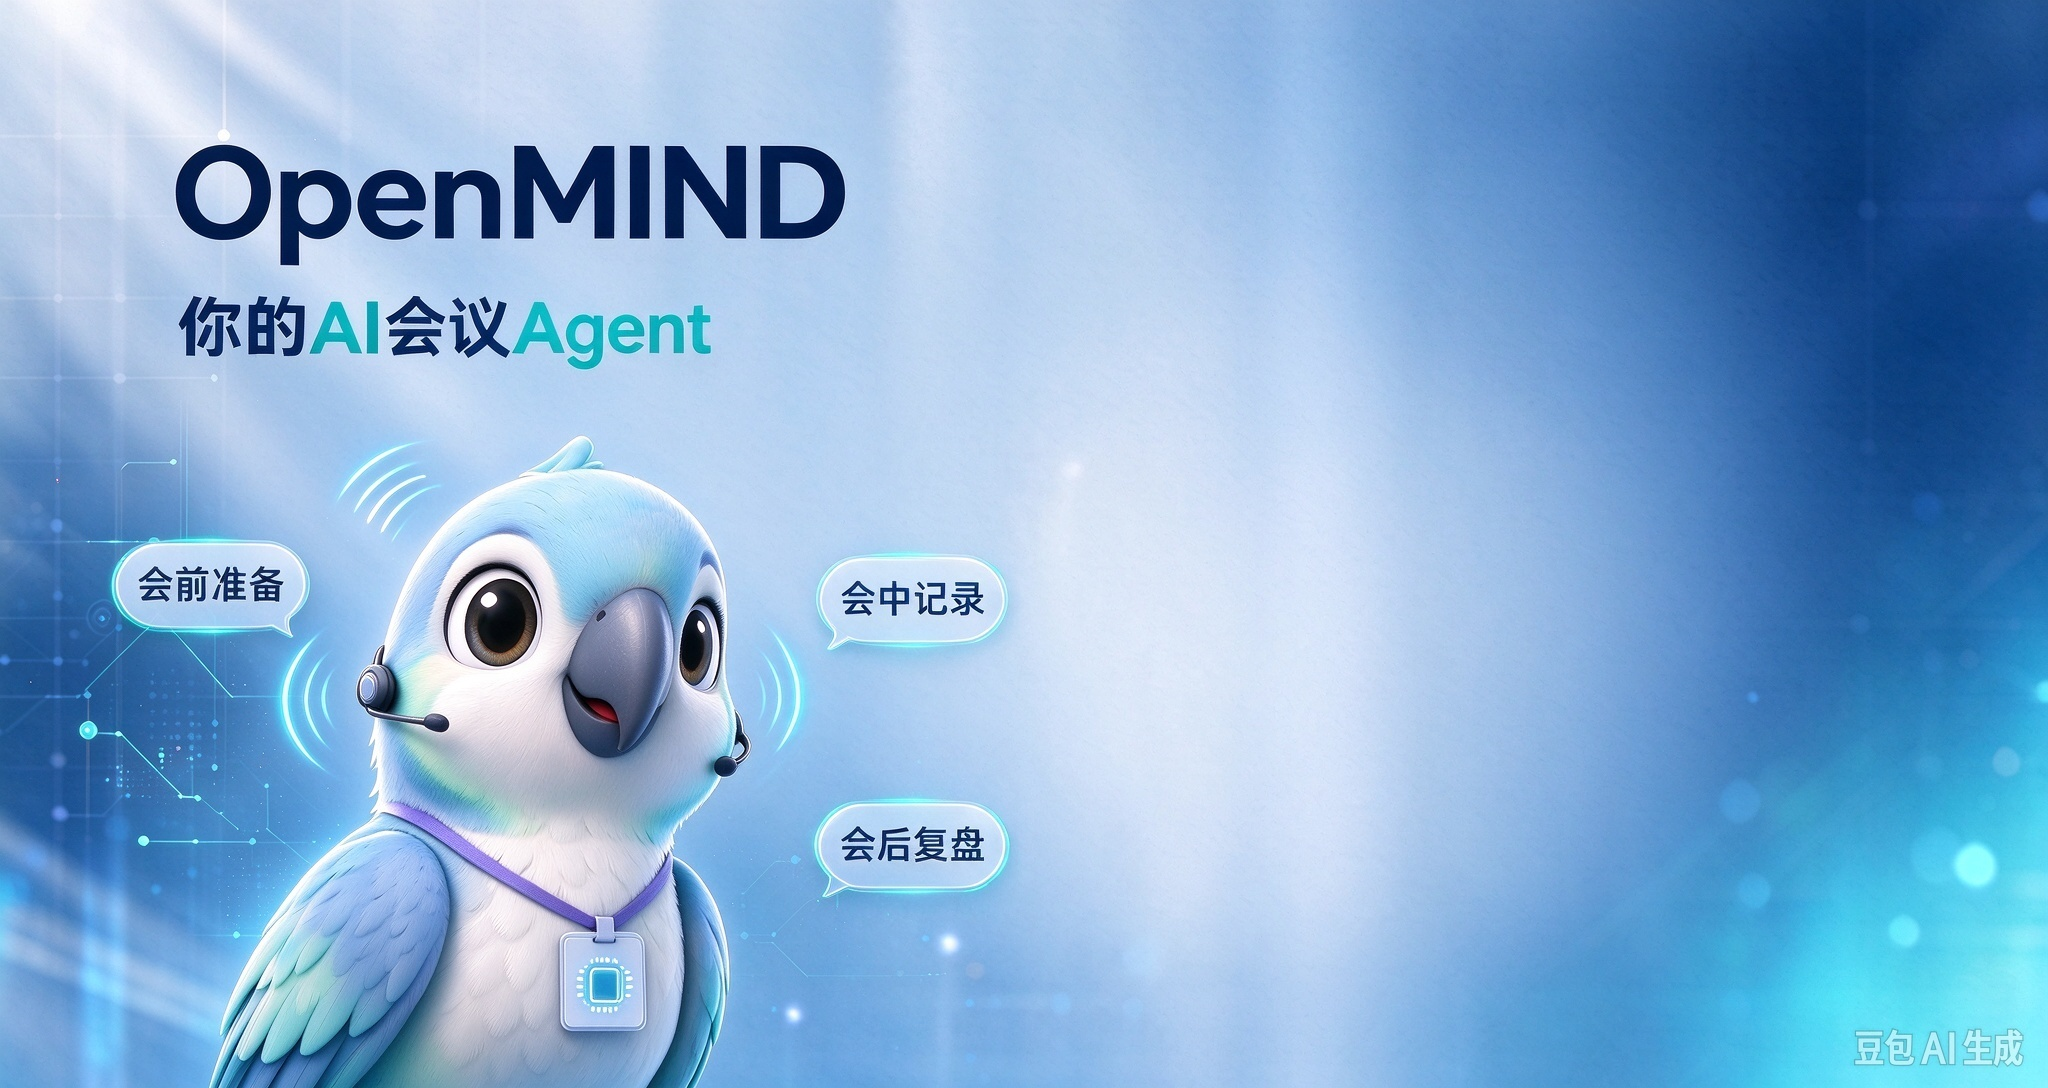
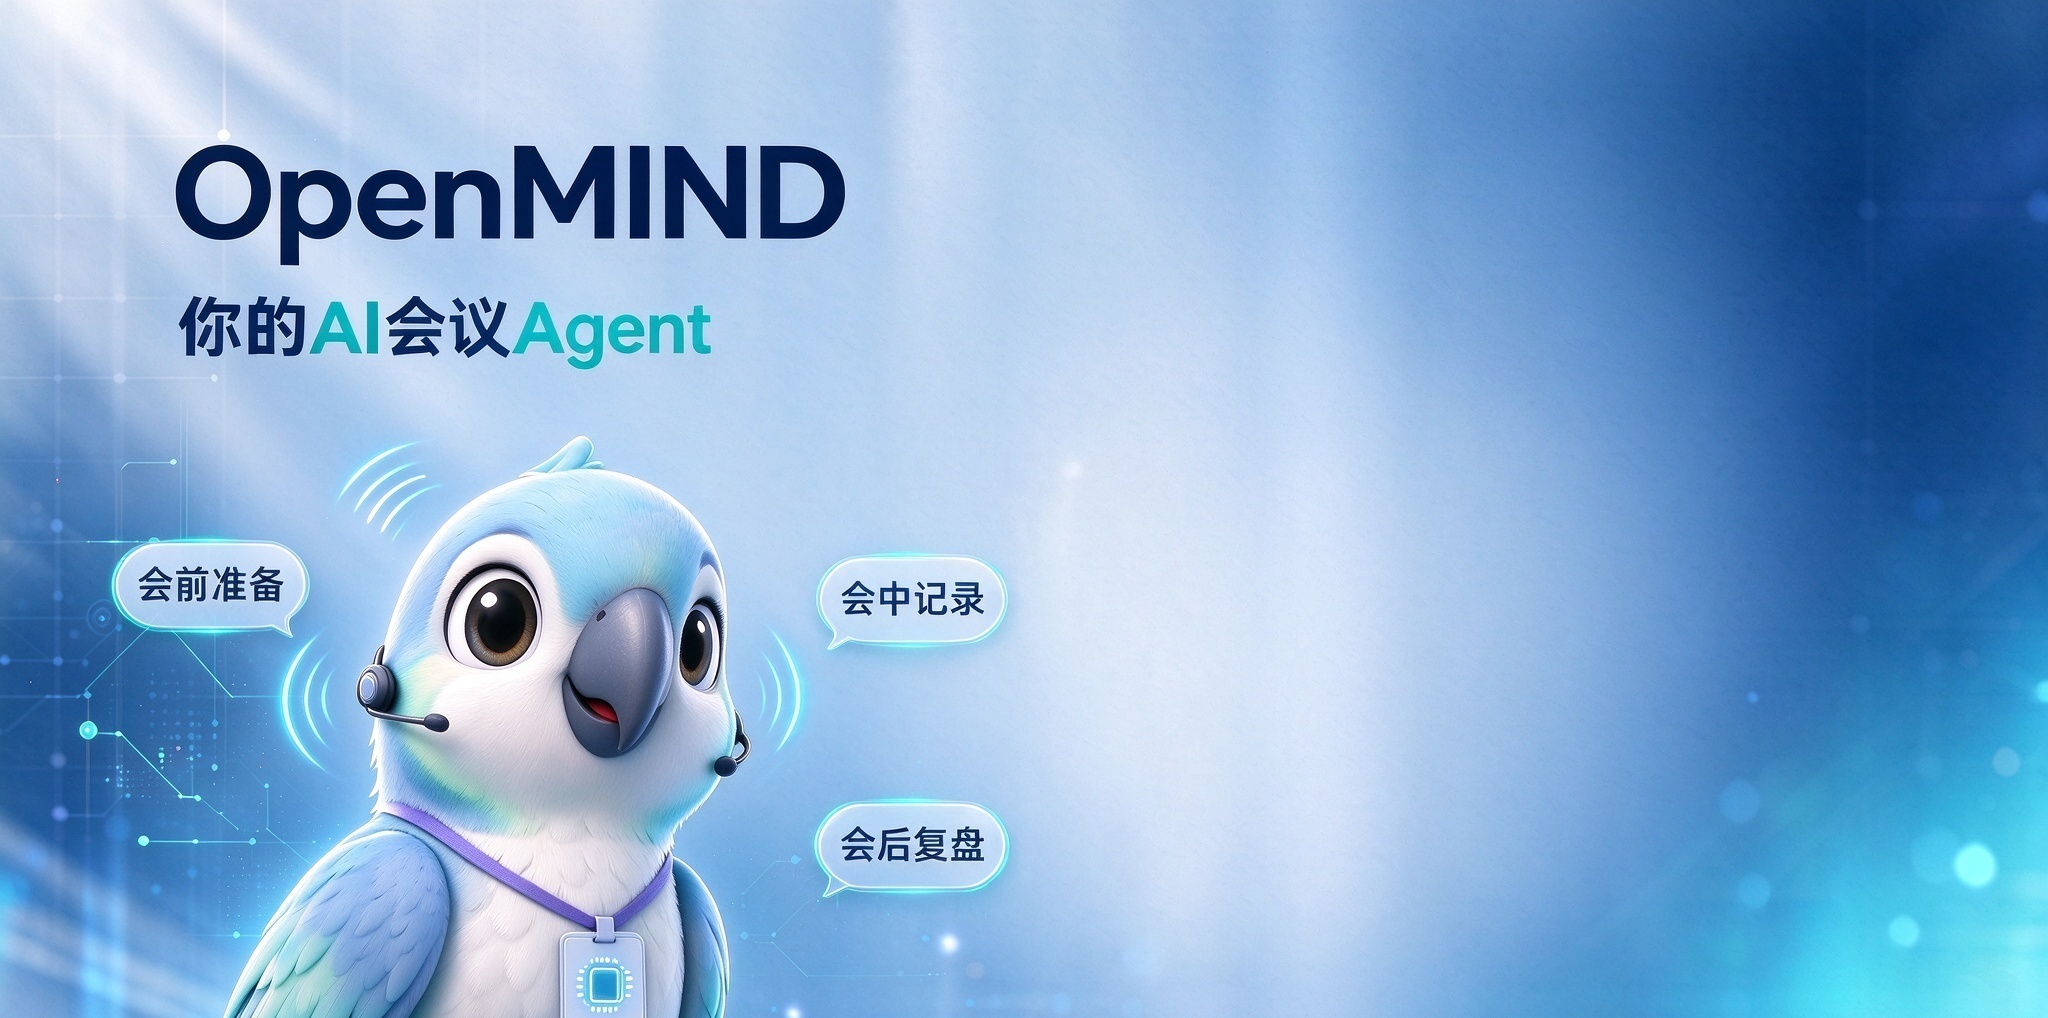
chore(m00): crop AI watermark from auth background image
Trim the bottom strip carrying the generator watermark (2048x1088 -> 2048x1018) and anchor the cover background to the left edge so wide viewports crop the empty gradient side instead of the brand artwork.

diff --git a/frontend/src/views/auth/RegisterView.vue b/frontend/src/views/auth/RegisterView.vue
@@ -121,7 +121,7 @@ async function submit(): Promise<void> {
   min-height: 100vh;
   /* 品牌背景图：左侧为品牌视觉，右侧留白放置表单 */
   background:
-    url('@/assets/registerbg.jpeg') center / cover no-repeat,
+    url('@/assets/registerbg.jpeg') left center / cover no-repeat,
     #eef2f8;
 }
 

diff --git a/frontend/src/views/auth/LoginView.vue b/frontend/src/views/auth/LoginView.vue
@@ -91,7 +91,7 @@ async function submit(): Promise<void> {
   min-height: 100vh;
   /* 品牌背景图：左侧为品牌视觉，右侧留白放置表单 */
   background:
-    url('@/assets/registerbg.jpeg') center / cover no-repeat,
+    url('@/assets/registerbg.jpeg') left center / cover no-repeat,
     #eef2f8;
 }
 
